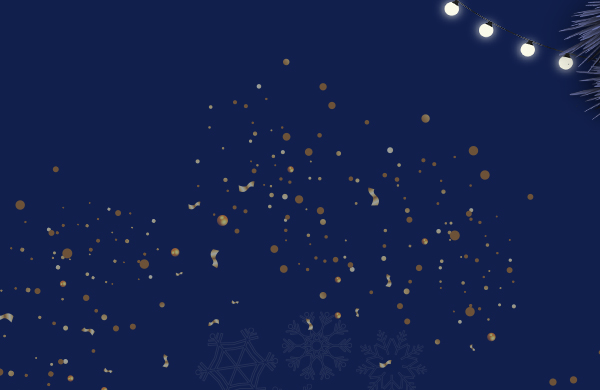
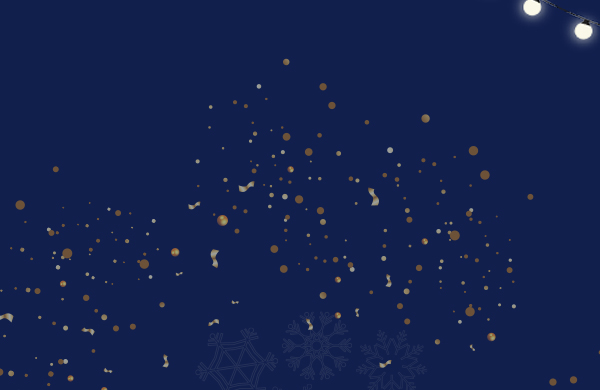
changement des backgrounds

Changed region(s): [[0.84, 0.0, 1.0, 0.3077], [0.72, 0.0, 0.9, 0.1538]]

diff --git a/style.css b/style.css
@@ -131,7 +131,7 @@ a:hover{
 }
 
 .background2 {
-    background: url("assets/img/3.jpg");
+    background: url("assets/img/2.jpg");
   
     
 }
@@ -143,7 +143,7 @@ a:hover{
     padding-bottom: 20px;
 }
 .background3 {
-    background: url("assets/img/22.jpg");
+    background: url("assets/img/2.jpg");
 }
 
 
